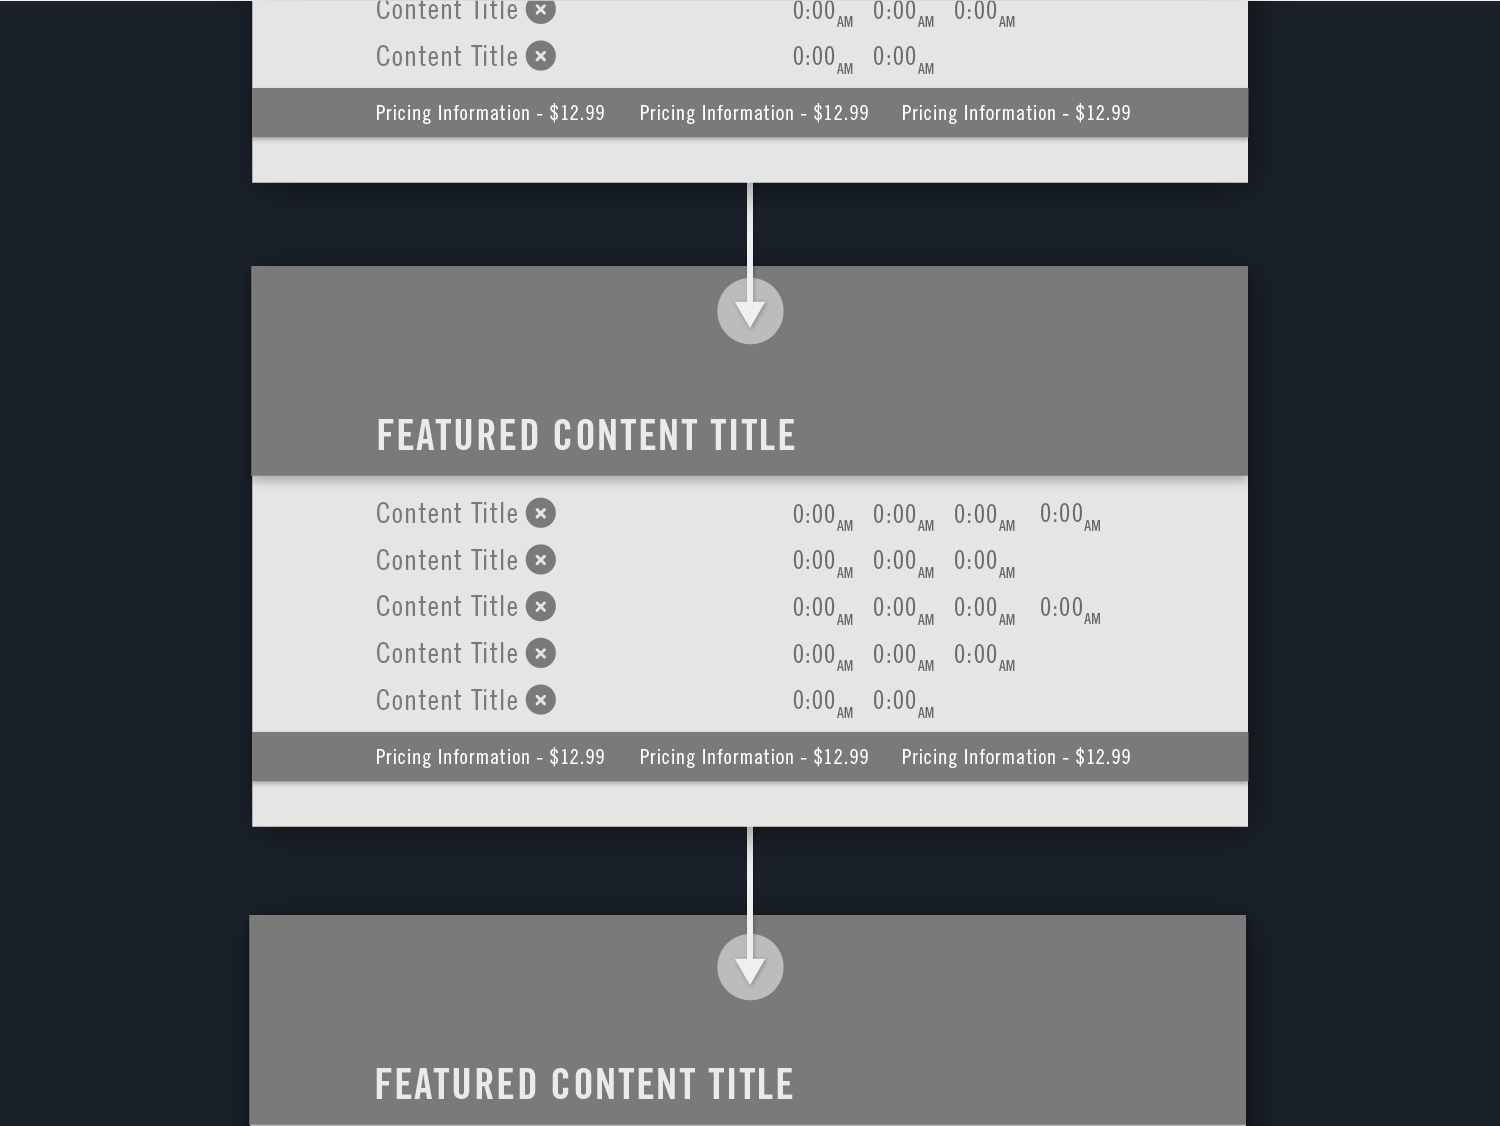
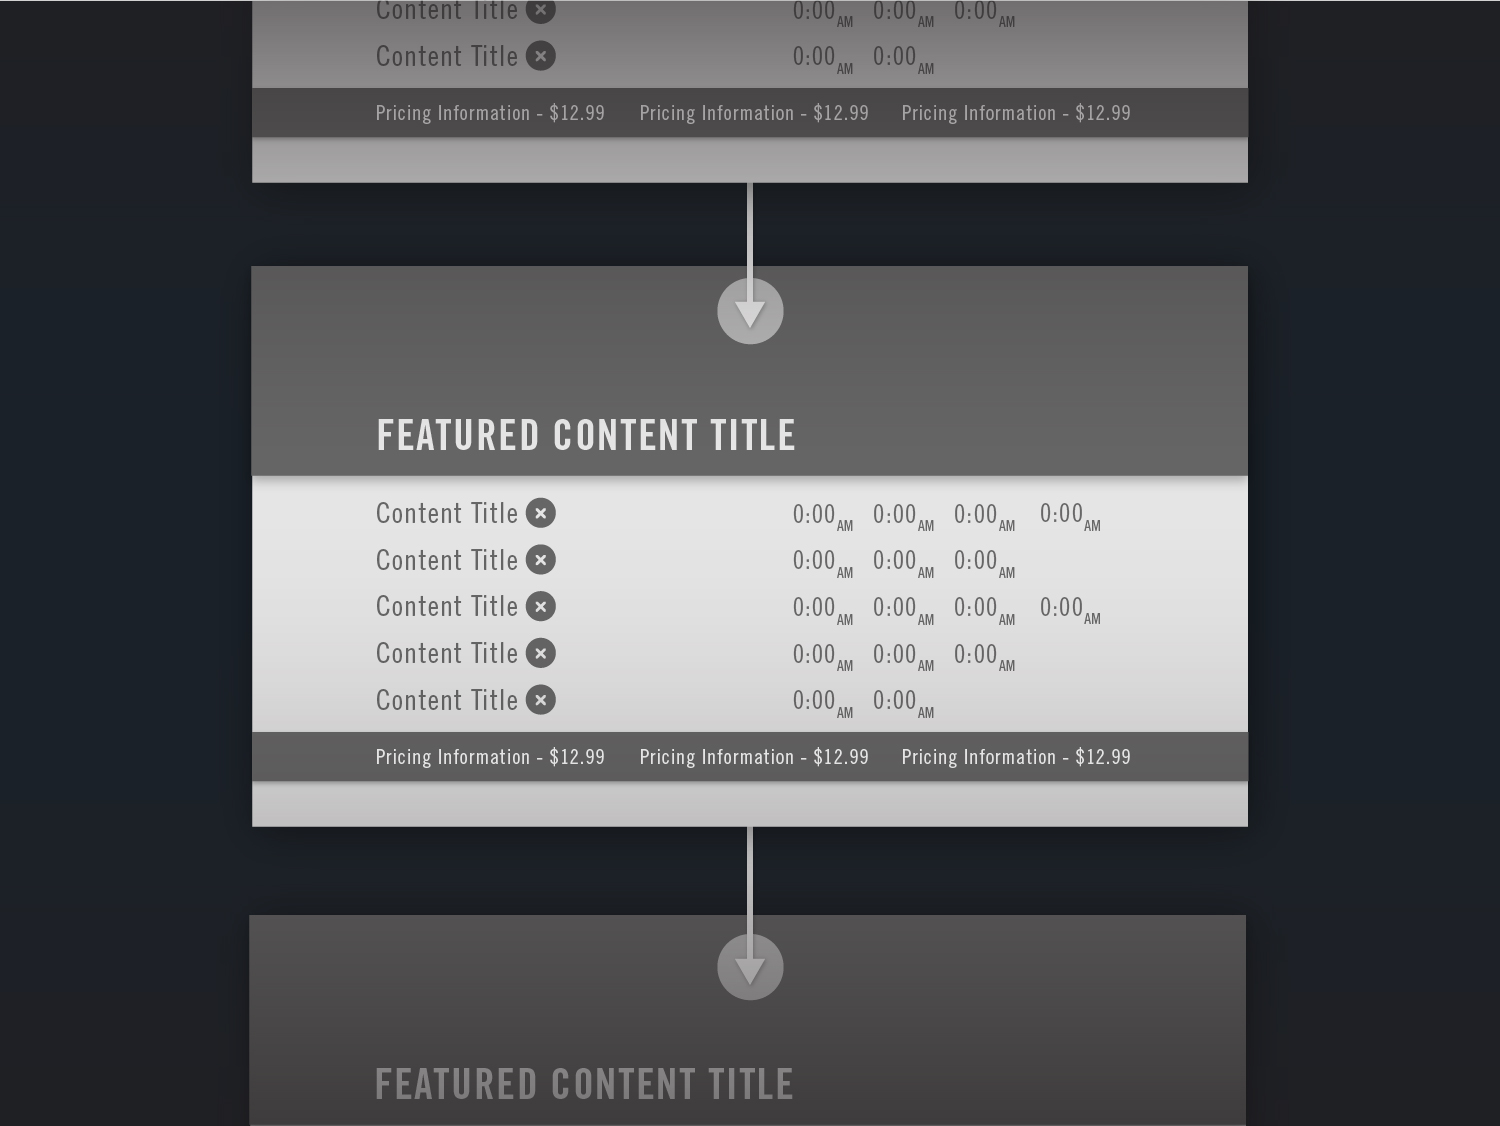
updated showtimes visuals

diff --git a/showTimes.html b/showTimes.html
@@ -21,7 +21,7 @@ previous: /hotel
         <div class="grid pad-t island">
            <div class="unit unit-xs-1 unit-s-1 unit-m-1-2 unit-l-2-3 island">
                 <div class="embed embed--4by3">
-                    <img src="{{site.baseurl}}/artwork/signBanner.jpg" class="main-p-img embed__item" alt="Image of Wolf">
+                    <img src="{{site.baseurl}}/artwork/signBanner2.jpg" class="main-p-img embed__item" alt="Image of Wolf">
                 </div><!-- embed -->
             </div><!-- unit -->
             
